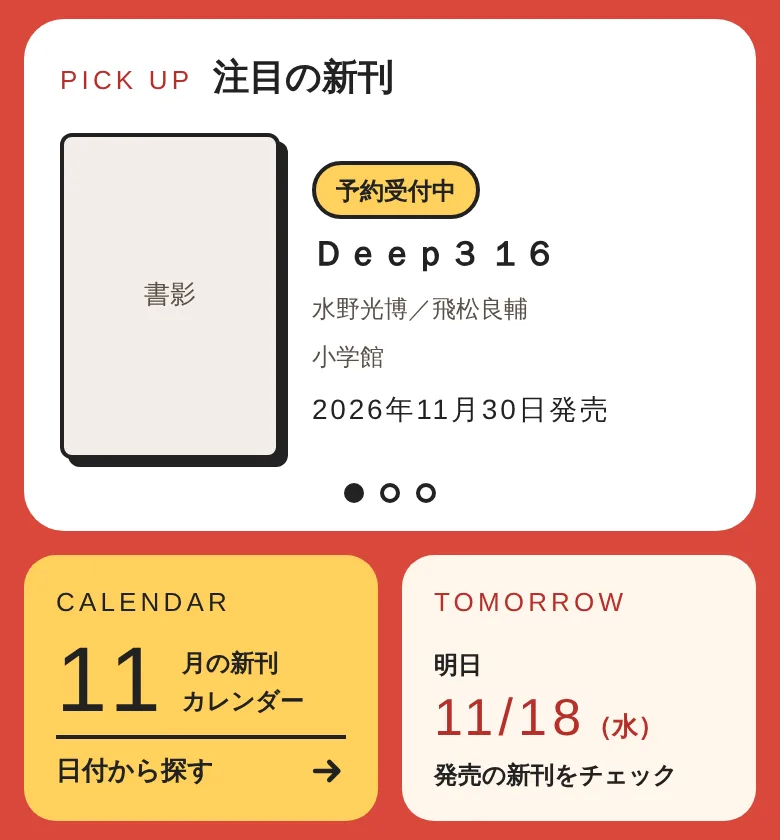
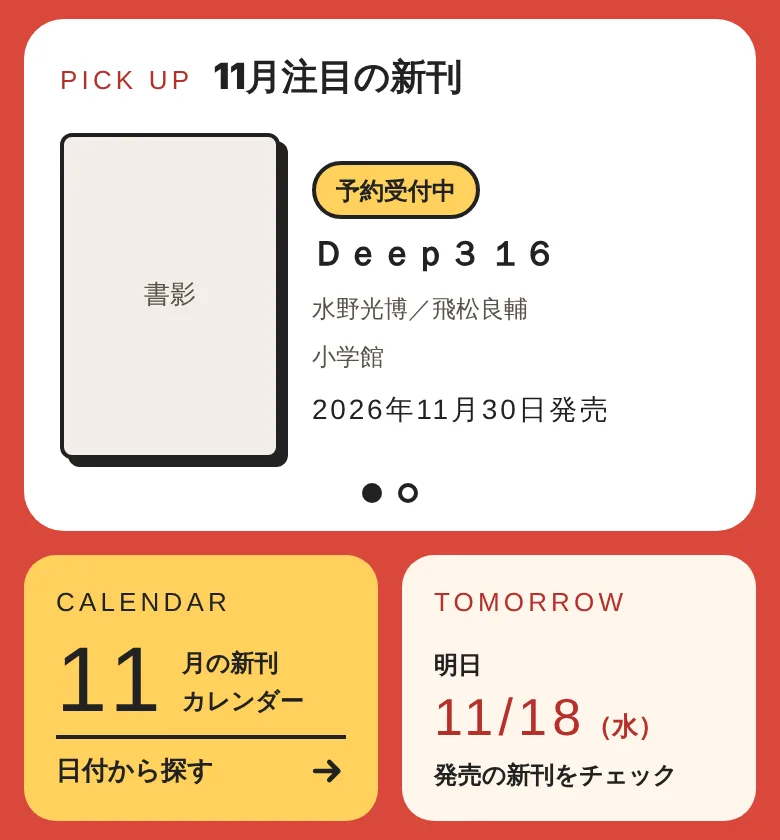
注目の新刊を「○月注目の新刊」にし、掲載する月で出し分ける（月初から月末まで）。区切りは空白でもよい
Claude-Session: https://claude.ai/code/session_0179GcvuKvMQPdA4ff9PfyHk

Changed region(s): [[0.2769, 0.0619, 0.6154, 0.1238], [0.4308, 0.5571, 0.5538, 0.619]]

diff --git a/templates/guide.html b/templates/guide.html
@@ -13,7 +13,7 @@
 <p id="toc-title" class="toc__title">このページの内容</p>
 <ol class="toc__list">
 <li class="toc__item"><a href="#find" class="toc__link">新刊を探す</a></li>
-<li class="toc__item"><a href="#pickup" class="toc__link">注目の新刊</a></li>
+<li class="toc__item"><a href="#pickup" class="toc__link">今月の注目の新刊</a></li>
 <li class="toc__item"><a href="#search" class="toc__link">キーワードと条件で検索する</a></li>
 <li class="toc__item"><a href="#book" class="toc__link">本のページで分かること</a></li>
 <li class="toc__item"><a href="#buy" class="toc__link">予約・購入する</a></li>
@@ -35,11 +35,11 @@
 <p class="doc__text"><a href="{{ root }}genre/" class="doc__link">ジャンルから探す</a>では、少年漫画・少女漫画・青年漫画・女性漫画・BL漫画・TL漫画のジャンルごとに新刊を見られます。ジャンルはレーベルごとに分けています。「新シリーズ1巻」「完結巻」「特装版・限定版」「電子同時配信」などのタグや、著者の名前からも探せます。</p>
 </section>
 <section id="pickup" class="doc__section">
-<h2 class="doc__title">注目の新刊</h2>
+<h2 class="doc__title">今月の注目の新刊</h2>
 <div class="doc__media">
 <figure class="doc__figure"><img src="{{ root }}assets/img/guide/pickup.webp" alt="注目の新刊" class="doc__image" loading="lazy"><figcaption class="doc__caption">発売前は「予約受付中」、発売日からは「発売中」になります</figcaption></figure>
 <div class="doc__body">
-<p class="doc__text"><a href="{{ root }}" class="doc__link">トップページ</a>の検索の横（スマホでは検索の下）に、漫画新刊JPがおすすめする「注目の新刊」を載せています。数冊が順に切り替わり、下の丸を押すと好きな本に切り替えられます。</p>
+<p class="doc__text"><a href="{{ root }}" class="doc__link">トップページ</a>の検索の横（スマホでは検索の下）に、漫画新刊JPがおすすめする「○月注目の新刊」を載せています。月の初めに入れ替わり、その月のあいだ数冊が順に切り替わります。下の丸を押すと好きな本に切り替えられます。</p>
 <p class="doc__text">発売日の前は「予約受付中」、発売日からは「発売中」の印が付きます。本を押すと、その本のページに移ります。その下の「TOMORROW」からは、明日発売の新刊をまとめて見られます。</p>
 </div>
 </div>

diff --git a/templates/index.html b/templates/index.html
@@ -63,7 +63,7 @@
 <section aria-labelledby="pick-title" class="pickup" data-pick>
 <div class="pickup__head">
 <span class="pickup__en">PICK UP</span>
-<h2 id="pick-title" class="pickup__title">注目の新刊</h2>
+<h2 id="pick-title" class="pickup__title">{{ pickup_month }}月注目の新刊</h2>
 </div>
 <div class="pickup__slides">
 {% for p in pickup %}

diff --git a/src/newcomics/build.py b/src/newcomics/build.py
@@ -682,30 +682,33 @@ PICKUP_FILE = "featured.tsv"
 
 
 def load_pickup(site):
-    """トップの「注目の新刊」。運営者が非公開リポジトリの featured.tsv に書いた本を、書いた順に出す（2026-11-17 運営者の判断）。
-    1列目は本のページのアドレスか ISBN、2列目は掲載の終わりの日（その日まで出す）。発売日より前は「予約受付中」、発売日からは「発売中」。"""
+    """トップの「○月注目の新刊」。運営者が非公開リポジトリの featured.tsv に書いた本を、書いた順に出す（2026-11-17 運営者の判断）。
+    1列目は本のページのアドレスか ISBN、2列目は掲載する月（2026-11 の形）。その月の1日から末日まで出す。
+    列の区切りはタブか空白。発売日より前は「予約受付中」、発売日からは「発売中」。"""
     path = site.env.get("PICKUP_FILE") or str(Path(site.env.get("NEWCOMICS_DB", "data/newcomics.sqlite")).parent / PICKUP_FILE)
     if not Path(path).exists():
         return []
     by_key = {b.key: b for b in site.books}
     by_isbn = {b.isbn13: b for b in site.books if b.isbn13}
-    out = []
+    month = f"{site.today.year}-{site.today.month:02d}"
+    out, missing, no_month = [], 0, 0
     for line in Path(path).read_text(encoding="utf-8").splitlines():
-        cols = [c.strip() for c in line.split("\t")]
-        if not cols[0] or cols[0].startswith("#") or cols[0] == "本":
+        cols = line.split()
+        if not cols or cols[0].startswith("#") or cols[0] == "本":
             continue
         m = re.search(r"/book/([^/]+)/?", cols[0])
         b = by_key.get(m.group(1)) if m else by_isbn.get(re.sub(r"\D", "", cols[0]))
         if b is None:
-            print(f"注目の新刊：見つからない本があります（{len(out) + 1}件目の前後）")
+            missing += 1
             continue
-        try:
-            end = date.fromisoformat(cols[1]) if len(cols) > 1 and cols[1] else None
-        except ValueError:
-            end = None
-        if end and end < site.today:
+        mm = re.match(r"(\d{4})[-/年.](\d{1,2})", cols[1]) if len(cols) > 1 else None
+        if not mm:
+            no_month += 1
             continue
-        out.append(b)
+        if f"{mm.group(1)}-{int(mm.group(2)):02d}" == month and b not in out:
+            out.append(b)
+    if missing or no_month:
+        print(f"注目の新刊：見つからない本 {missing} 件・掲載する月のない行 {no_month} 件")
     return out
 
 
@@ -741,6 +744,7 @@ def build_top(site, w):
         "calendar": {"url": f"calendar/{today.year}/{today.month:02d}/", "month": today.month},
         "tomorrow": tomorrow_card(site, tomorrow),
         "releases": [release(today, "今日"), release(tomorrow, "明日")],
+        "pickup_month": today.month,
         "pickup": [{
             "url": site.book_url(root, b), "title": b.title, "pub": b.publisher, "label": b.label, "author": site.author_text(b),
             "date": f"{b.release.year}年{b.release.month}月{b.release.day}日" if b.release else "発売日未定",

diff --git a/docs/spec.md b/docs/spec.md
@@ -31,7 +31,7 @@ CSS・JS のアドレスには中身から作った印（`?v=…`）を付け、
 
 | ページ | 場所 | 内容 |
 |---|---|---|
-| トップ | `/` | 注目の新刊（運営者が非公開リポジトリの featured.tsv に書いた本。1列目は本のページのアドレスか ISBN、2列目は掲載の終わりの日。発売日の前日までは「予約受付中」、発売日からは「発売中」。書影のリンク先は本の詳細ページ）、今日・明日発売の新刊、発売日の変更、特集、お知らせ（WordPress のカテゴリー「お知らせ」（news）の新しい3件。特集の欄には出さない） |
+| トップ | `/` | ○月注目の新刊（運営者が非公開リポジトリの featured.tsv に書いた本。1列目は本のページのアドレスか ISBN、2列目は掲載する月（2026-11 の形）で、その月の1日から末日まで出す。区切りはタブか空白。発売日の前日までは「予約受付中」、発売日からは「発売中」。書影のリンク先は本の詳細ページ）、今日・明日発売の新刊、発売日の変更、特集、お知らせ（WordPress のカテゴリー「お知らせ」（news）の新しい3件。特集の欄には出さない） |
 | カレンダー | `/calendar/`、`/calendar/YYYY/MM/` | 月ごとの発売日カレンダー。今月のページの正規 URL は `/calendar/` |
 | 日ごと | `/date/YYYY-MM-DD/` | その日発売の新刊（出版社別） |
 | 今日発売 | `/today/` | 今日発売の新刊（出版社別）と、次の発売日の新刊。タイトル・説明文に日付と点数は入れない |
